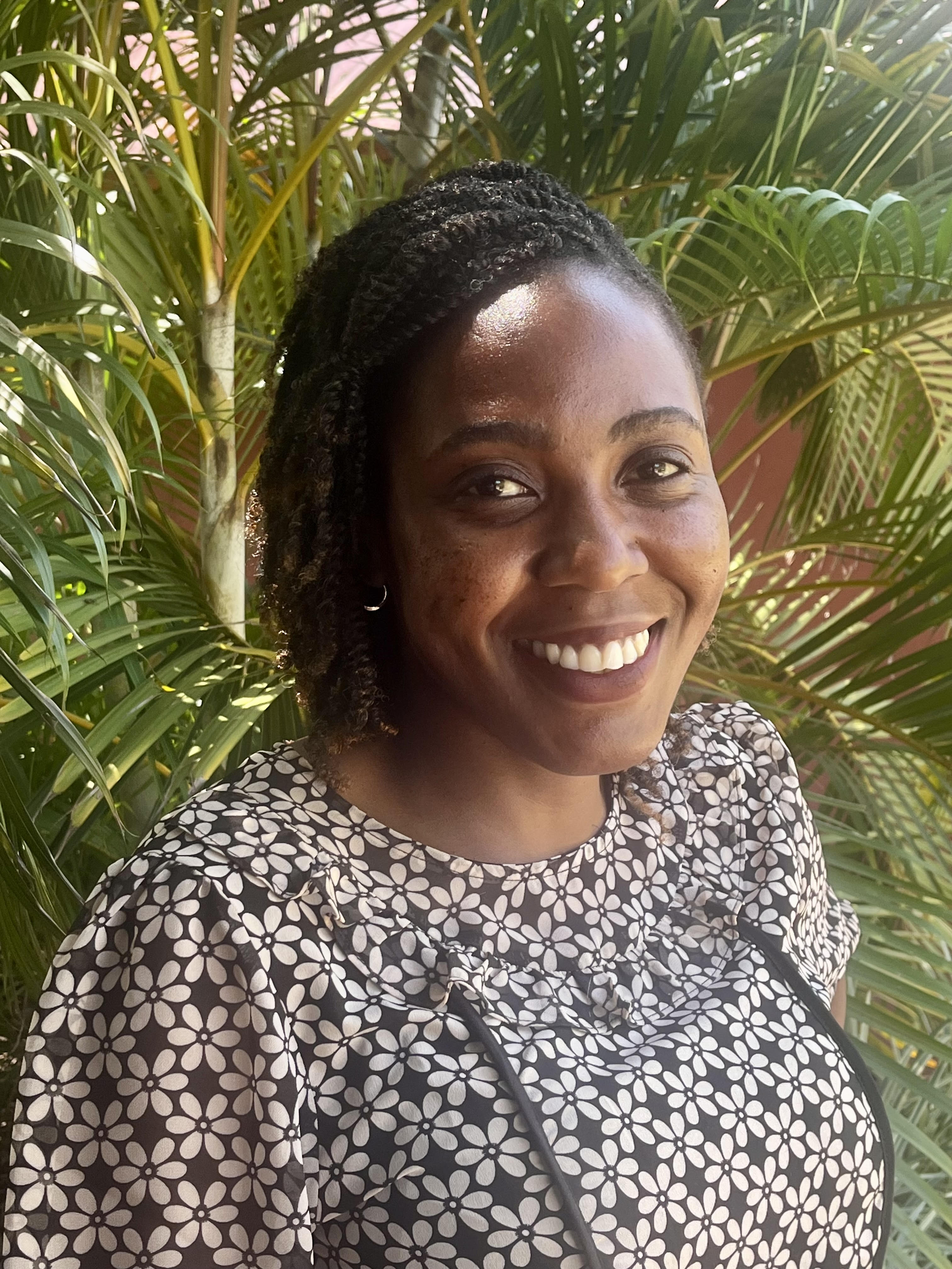
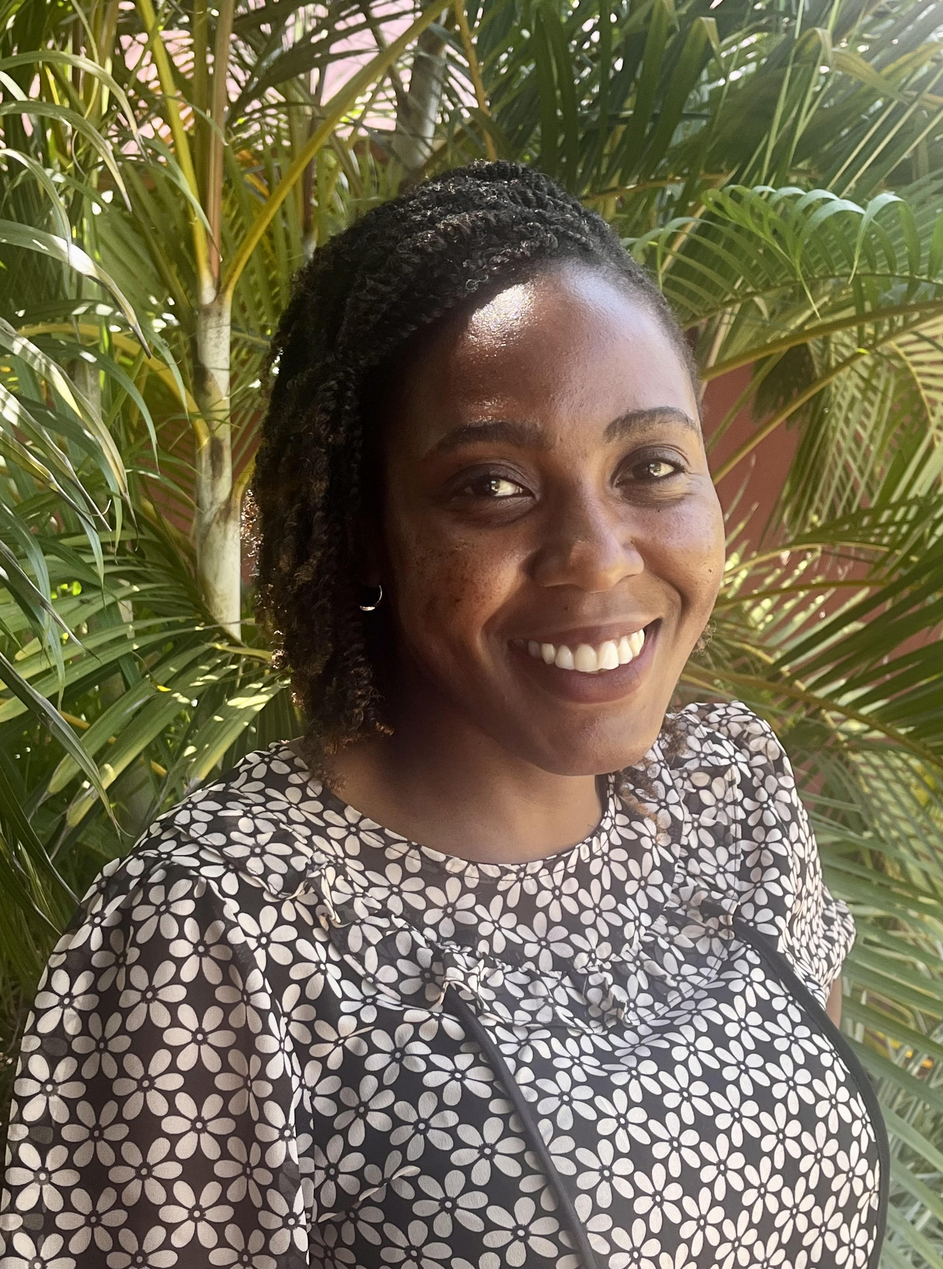
cropped images and adjusted responsive formatting

diff --git a/resources/css/app.css b/resources/css/app.css
@@ -36,7 +36,7 @@ body {
 }
 
 .we-do-dropdown-item {
-    @apply text-black flex items-center px-6 w-full first-of-type:rounded-t-2xl first-of-type:pt-4 last-of-type:rounded-b-2xl last-of-type:pb-4  py-2  hover:text-stats4sd-red disabled:text-gray-500;
+    @apply text-black flex items-center px-6 w-full  first-of-type:rounded-t-2xl first-of-type:pt-4 last-of-type:rounded-b-2xl last-of-type:pb-4  py-2  hover:text-stats4sd-red disabled:text-gray-500;
 }
 
 .nav-link {

diff --git a/resources/views/team.blade.php b/resources/views/team.blade.php
@@ -34,19 +34,19 @@
     </div>
 
     <!-- Team Cards -->
-    <div class="max-w-screen-lg 2xl:max-w-screen-xl 3xl:max-w-screen-2xl px-8 sm:px-20 md:px-12 2xl:px-20 mx-auto pb-16">
+    <div class="max-w-screen-lg 2xl:max-w-screen-xl 3xl:max-w-screen-2xl px-20 md:px-12 2xl:px-20 mx-auto pb-16">
         <div class="grid grid-cols-1 sm:grid-cols-2 md:grid-cols-3 lg:grid-cols-4 gap-8 3xl:gap-12" id="team-container">
             @foreach ($teamData as $teamMember)
                 <div class="relative" x-data="{ open: false }">
                     <!-- Card -->
-                    <div class="cursor-pointer rounded-3xl overflow-hidden hover-effect h-80 sm:h-70" @click="open = true">
+                    <div class="cursor-pointer rounded-3xl overflow-hidden hover-effect max-w-[65vw] sm:max-w-none mx-auto sm:mx-0 sm:h-70" @click="open = true">
                         <img
                             src="{{ asset($teamMember['avatar']) }}"
                             alt="Photo of {{ $teamMember['name'] }}"
-                            class="h-auto w-full"
+                            class="h-auto w-full "
                         >
                     </div>
-                    <div class="mt-2 px-2">
+                    <div class="mt-2 px-2 max-w-[65vw] sm:max-w-none mx-auto">
                         <h4 class="text-gray-900 text-lg font-semibold">{{ $teamMember['name'] }}</h4>
                         <p class="text-gray-700 text-sm">{{ $teamMember['title'] }}</p>
                     </div>
